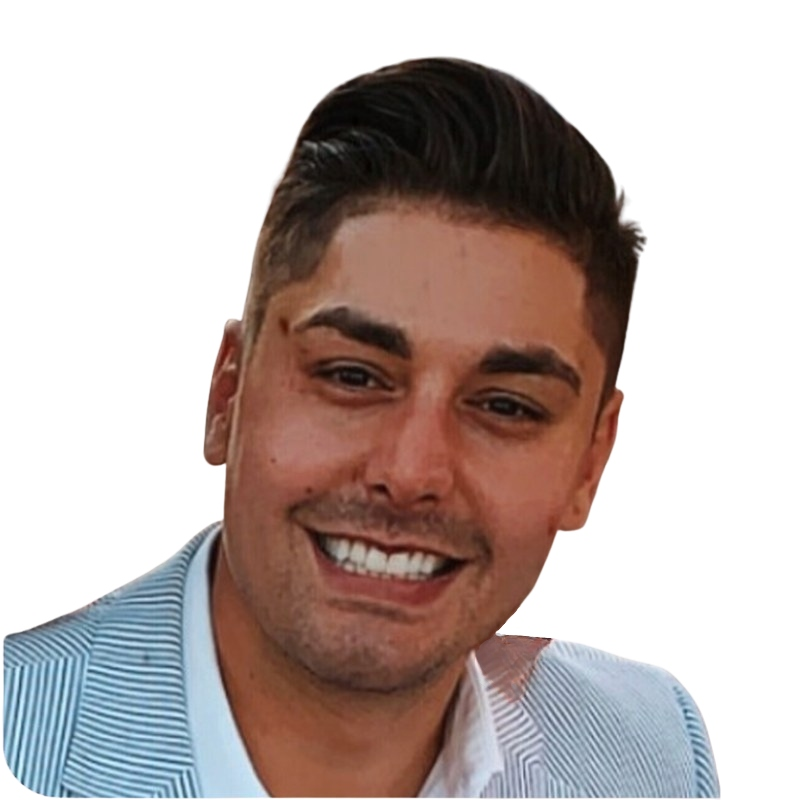
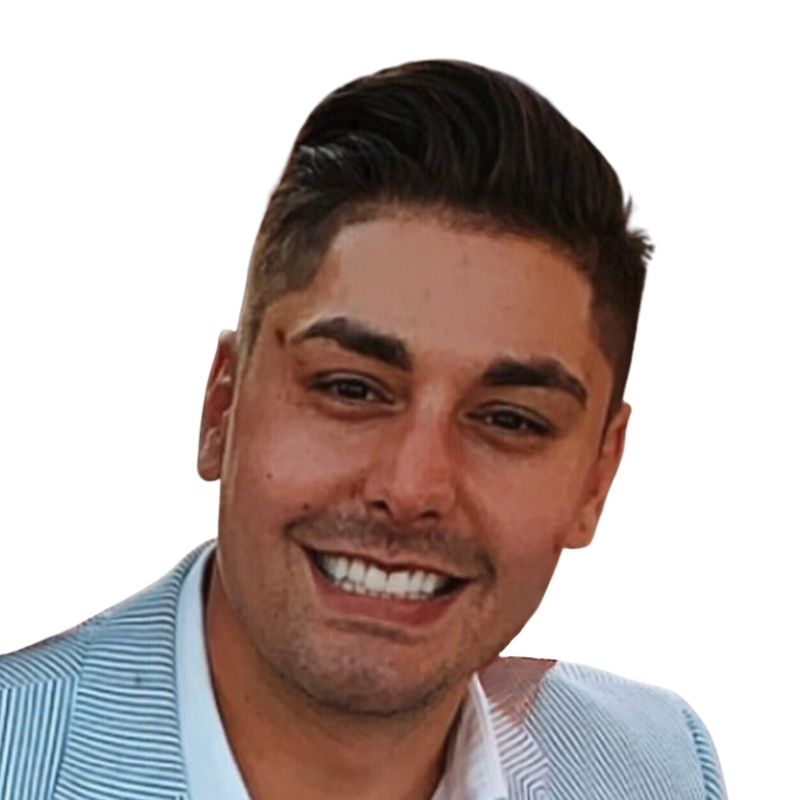
team: new Joe photo with both shoulders + bleed shoulders past bottom for all

diff --git a/scripts/build_team_photos.py b/scripts/build_team_photos.py
@@ -141,8 +141,9 @@ def build_background() -> Image.Image:
 class Subject:
     name: str            # output filename stem
     src: str             # path or URL
-    y_bias: float = 0.0  # positive shifts subject down; keeps top of head off canvas edge
-    scale: float = 1.0   # 1.0 = subject fills 92% of canvas height
+    y_bias: float = 0.0  # positive shifts subject down further, negative pulls up
+    scale: float = 1.0   # 1.0 = subject is as tall as the canvas
+    bleed: float = 0.06  # fraction of canvas the subject bleeds past the bottom edge
     pre_crop: tuple | None = None  # (left_pct, top_pct, right_pct, bottom_pct) applied before cutout
 
 
@@ -175,13 +176,22 @@ def _tight_crop(rgba: Image.Image) -> Image.Image:
     return rgba.crop(bbox)
 
 
-def composite(subject_rgba: Image.Image, bg: Image.Image, y_bias=0.0, scale=1.0) -> Image.Image:
-    """Fit the subject onto the background canvas."""
+def composite(subject_rgba: Image.Image, bg: Image.Image, y_bias=0.0, scale=1.0, bleed=0.06) -> Image.Image:
+    """Fit the subject onto the background canvas.
+
+    Anchoring model:
+      - Sizes the subject to scale * CANVAS in height (default 1.0).
+      - Positions the subject so its bottom edge extends *past* the canvas
+        bottom by `bleed` * CANVAS pixels. This guarantees no visible
+        shoulder cutoff line at the bottom of the card.
+      - y_bias then nudges the subject up (negative) or down (positive)
+        from that guaranteed-bleed baseline.
+    """
     canvas = bg.copy().convert("RGBA")
     subj = _tight_crop(subject_rgba)
 
-    # Target height: 92% of canvas by default (people fill the frame like editorial portraits)
-    target_h = int(CANVAS * 0.92 * scale)
+    # Target height: scale * CANVAS. Default 1.0 means subject is as tall as the canvas.
+    target_h = int(CANVAS * scale)
     ratio = target_h / subj.height
     new_w = int(subj.width * ratio)
     subj = subj.resize((new_w, target_h), Image.LANCZOS)
@@ -191,10 +201,11 @@ def composite(subject_rgba: Image.Image, bg: Image.Image, y_bias=0.0, scale=1.0)
     a = a.filter(ImageFilter.GaussianBlur(radius=0.6))
     subj.putalpha(a)
 
-    # Horizontal center; vertical anchored so head/shoulders sit visually right
+    # Horizontal center
     x = (CANVAS - new_w) // 2
-    # Anchor top of subject near y=4% of canvas, plus optional bias
-    y = int(CANVAS * (0.04 + y_bias))
+    # Vertical: bottom of subject sits at CANVAS + bleed*CANVAS, then y_bias offsets
+    bottom_target = CANVAS + int(CANVAS * bleed)
+    y = bottom_target - target_h + int(CANVAS * y_bias)
     canvas.alpha_composite(subj, (x, y))
     return canvas.convert("RGB")
 
@@ -209,26 +220,30 @@ def main() -> None:
         Subject(
             name="drew",
             src=str(ROOT / "assets/images/drew-original.jpg"),
-            y_bias=0.06,
-            scale=0.95,
+            y_bias=0.0,
+            scale=1.0,
+            bleed=0.08,
         ),
         Subject(
             name="joe",
             src=str(ROOT / "assets/images/joe-original.jpg"),
-            y_bias=0.03,
+            y_bias=0.0,
             scale=1.0,
+            bleed=0.08,
         ),
         Subject(
             name="dakarai",
             src=str(ROOT / "assets/images/dakarai.jpg"),
-            y_bias=0.04,
+            y_bias=0.0,
             scale=1.02,
+            bleed=0.06,
         ),
         Subject(
             name="rodrigo",
             src=str(ROOT / "assets/images/rodrigo-original.jpg"),
-            y_bias=0.05,
+            y_bias=0.0,
             scale=1.0,
+            bleed=0.08,
         ),
     ]
 
@@ -240,7 +255,7 @@ def main() -> None:
         cut = cutout(img, session)
         # Debug: save the raw cutout
         cut.save(f"/tmp/team_cut_{s.name}.png")
-        result = composite(cut, bg, y_bias=s.y_bias, scale=s.scale)
+        result = composite(cut, bg, y_bias=s.y_bias, scale=s.scale, bleed=s.bleed)
         out = OUT_DIR / f"{s.name}.jpg"
         result.save(out, "JPEG", quality=90, optimize=True)
         print(f"    -> {out} ({out.stat().st_size} bytes)")
